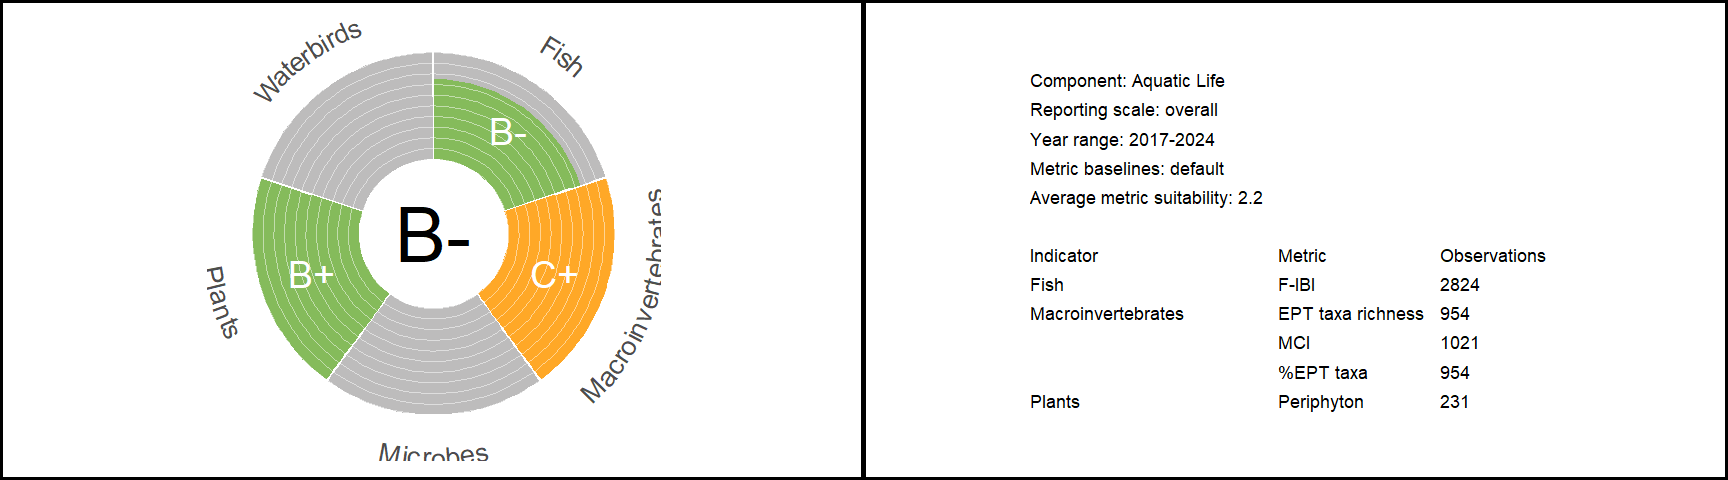
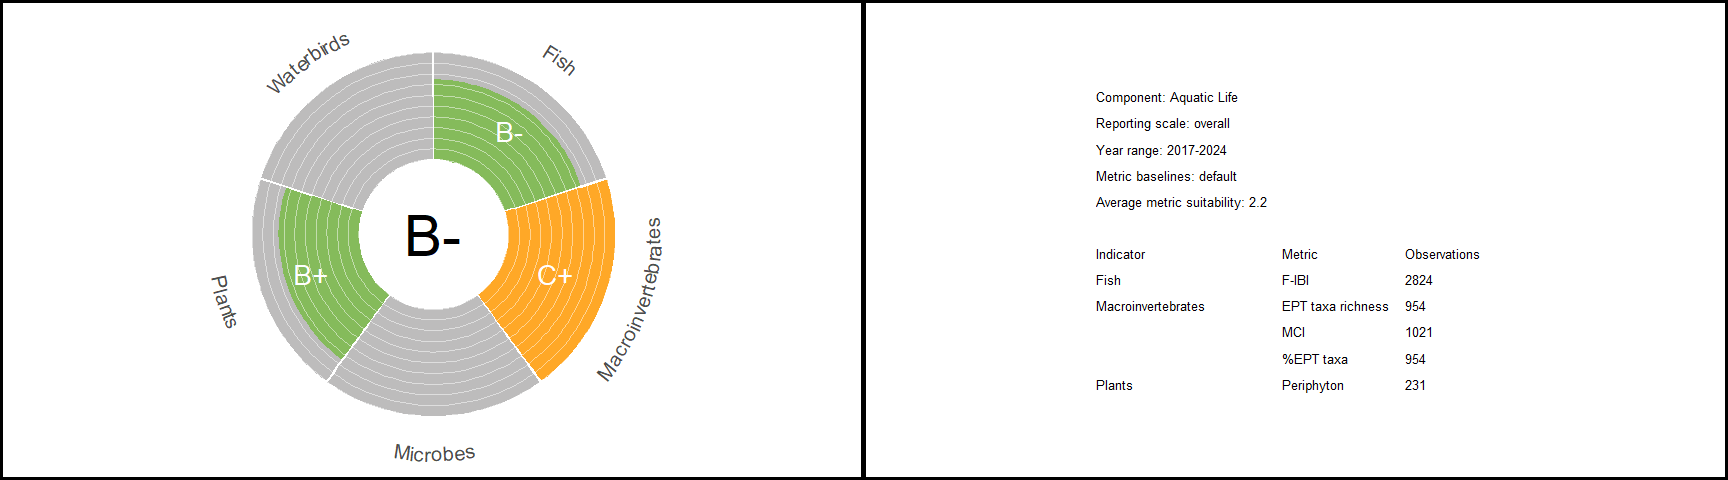
changed default font size for plot_report_card

diff --git a/README.md b/README.md
@@ -455,7 +455,7 @@ component_plot <- plot_component(
   score_table = score_table,
   npsfm_only = npsfm_only,
   reference_table = reference_table_default,
-  font_size = 20,
+  font_size = 15,
   color_table = NULL,
   start_year = 2017,
   end_year = 2024
@@ -523,14 +523,14 @@ report_card <- plot_report_card(
   start_year = 2017,
   end_year = 2024,
   color_table = NULL,
-  font_size = 14
+  font_size = 10
   
 )
 
 
 
 #save it to aid visualization
-jpeg("man/figures/aquatic_life_plot.jpeg",width = 1875, height = 3000, res = 150)
+jpeg("man/figures/aquatic_life_plot.jpeg",width = 1975, height = 3100, res = 150)
 report_card[[1]]
 dev.off()
 #> png 
